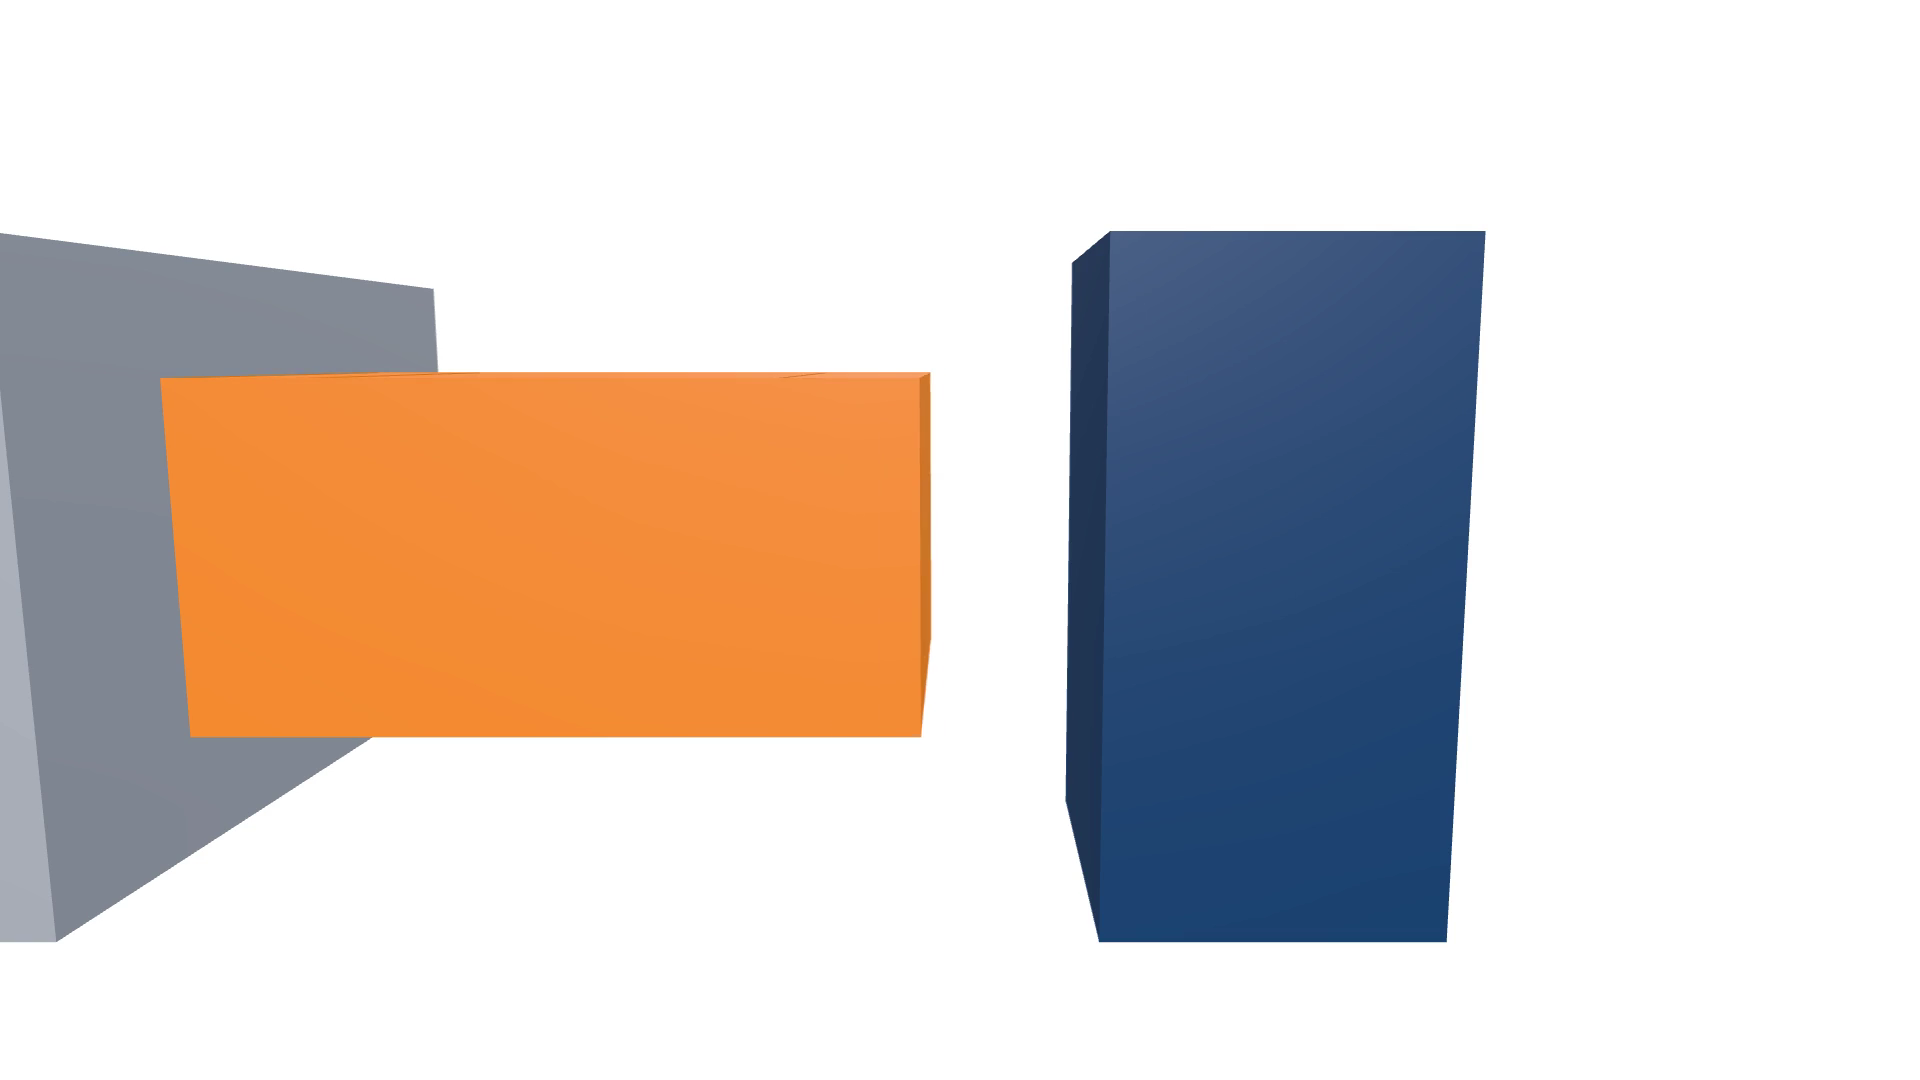
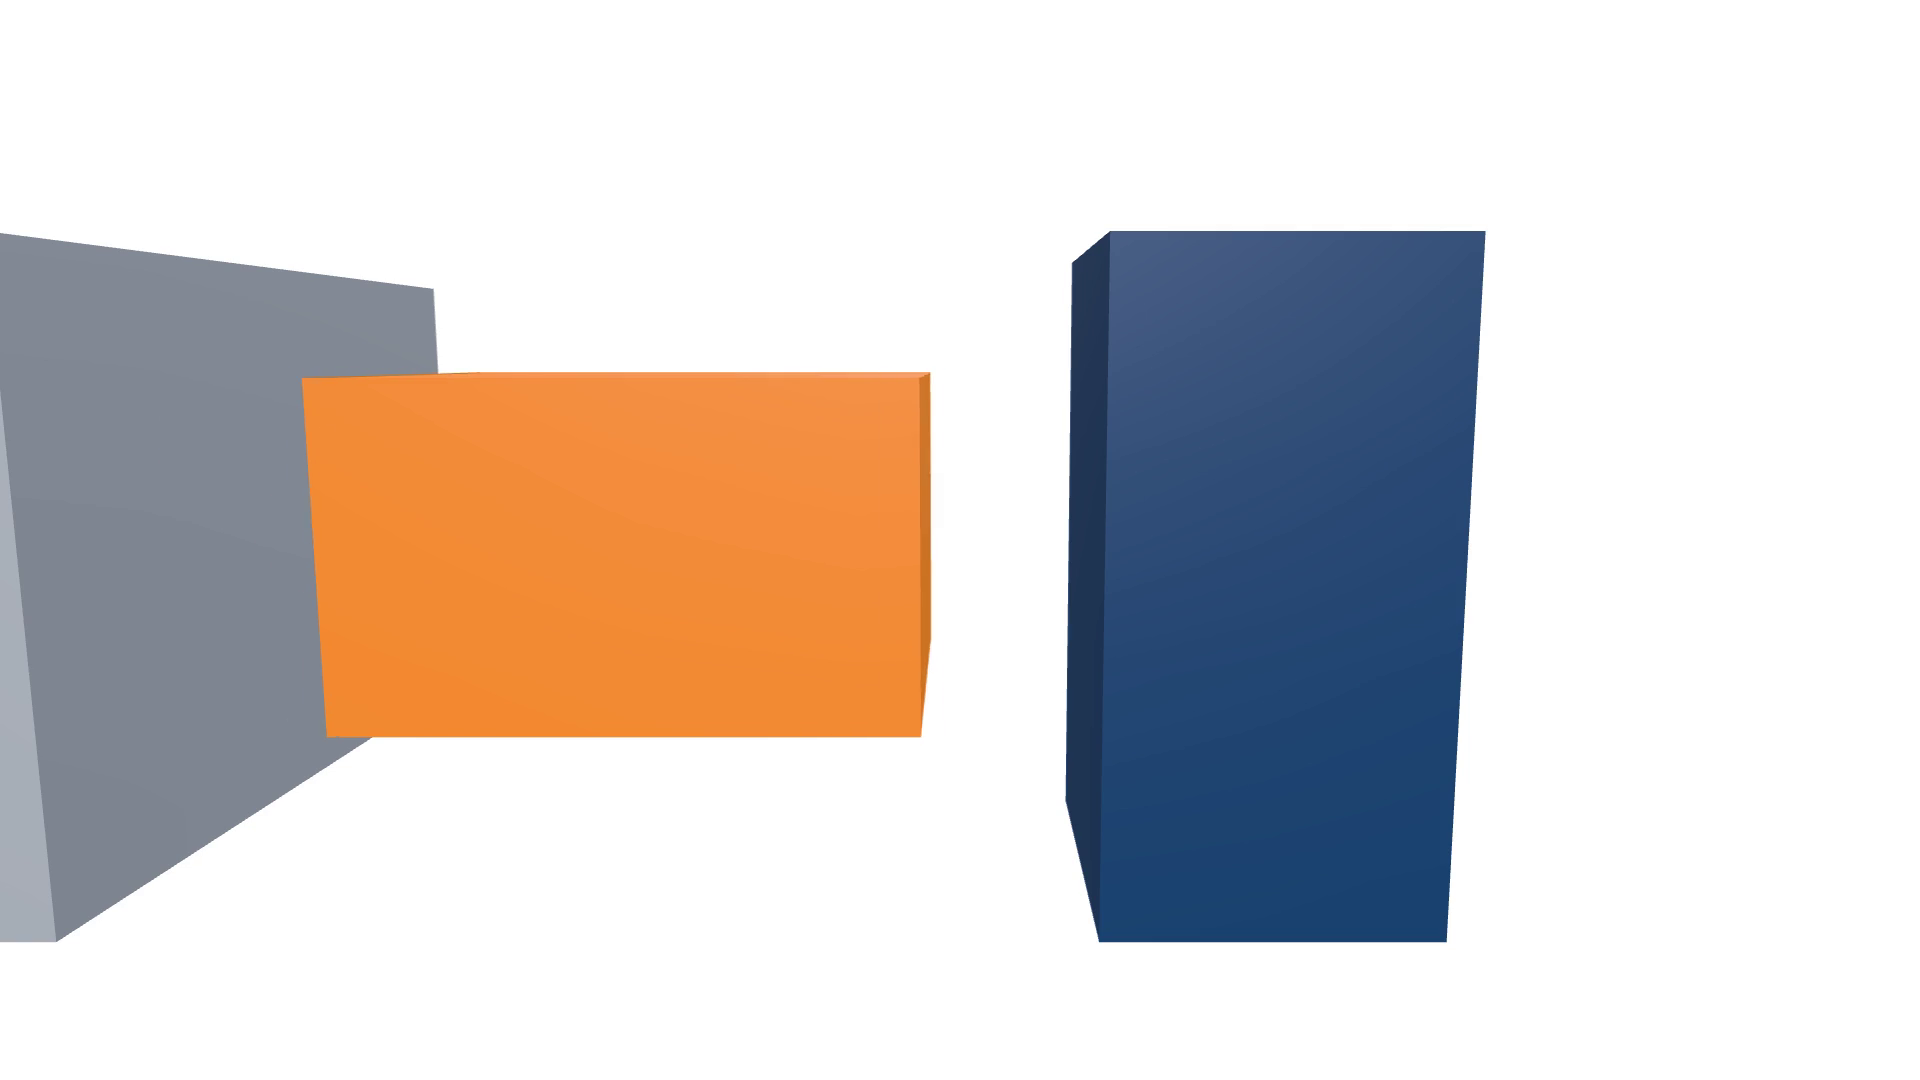
fix(kinematic): in-script queries leave no probe scene in the model
kinematic.suggestJointRanges, checkSweptCollision, checkStaticHold and
motionLoad lower a probe scene with solvedModel(poses, { validate: 'off' }).
That solvedAssembly record stayed in the session, so the model meshed every
assembly part twice: once fixed at the probe pose and once at the current
pose. kernelcad animate drew the moving part at both poses.

The session now removes the trailing probe record after the query has read
the lowered scene. The feature id is not reused.

The joint-range-suggestion demo is recaptured; the 2026-11-17 capture showed
the carriage stretched from its start to the wall.

Changed region(s): [[0.0625, 0.3361, 0.2188, 0.7028]]

diff --git a/tests/integration/kinematic/queryProbeSceneNotInModel.test.ts b/tests/integration/kinematic/queryProbeSceneNotInModel.test.ts
@@ -1,0 +1,46 @@
+// SPDX-License-Identifier: MIT
+// Copyright (c) 2026 Andrii Shylenko and kernelCAD contributors
+//
+// An in-script kinematic query lowers a probe scene of the assembly. That
+// probe scene must not stay in the model: it was meshed as a second copy of
+// every part, fixed at the probe pose, so an animation of the returned scene
+// showed the moving part at its rest pose and at its current pose at once.
+//
+// The script calls suggestJointRanges, checkSweptCollision, checkStaticHold
+// and motionLoad on one assembly, then returns one posed scene.
+
+import { describe, expect, it } from 'vitest';
+import { buildModel, updateModelParams } from '../../../src/composition/buildModel';
+import { meshFeaturesPerFeature } from '../../../src/modeling/capture/featureMeshing';
+
+const SCRIPT = `
+const slideMm = param('slideMm', 0.1, { min: 0.1, max: 9.8 });
+const arm = assembly('probe-scene');
+const rail = arm.part('rail', box(10, 30, 20));
+const carriage = arm.part('carriage', box(20, 16, 12));
+rail.connector('track', { type: 'axis', origin: { kind: 'vec3', value: [10, 15, 10] }, axis: [1, 0, 0] });
+carriage.connector('slide', { type: 'axis', origin: { kind: 'vec3', value: [0, 8, 6] }, axis: [1, 0, 0] });
+arm.mate('slide', 'rail.track', 'carriage.slide', 'prismatic', { pose: slideMm, limitsMm: [0.1, 9.8] });
+
+await kinematic.suggestJointRanges(arm, { joint: 'slide', search: [0, 12], resolution: 0.5 });
+await kinematic.checkSweptCollision(arm, { joint: 'slide', range: [1, 9, 4] });
+await kinematic.checkStaticHold(arm, { pose: { slide: 5 } });
+await kinematic.motionLoad(arm, {});
+
+return arm.solvedModel({});
+`;
+
+describe('in-script kinematic queries leave no probe scene in the model', () => {
+  it('records one solvedAssembly and meshes each part once, at the current pose', async () => {
+    const model = await buildModel({ code: SCRIPT, fileName: 'probe-scene.kcad.ts' });
+    const scenes = model.records.filter((r) => r.kind === 'solvedAssembly');
+    expect(scenes.map((r) => r.id)).toHaveLength(1);
+
+    await updateModelParams(model, [{ name: 'slideMm', value: 9 }]);
+    const meshing = await meshFeaturesPerFeature(model.records, model.session.paramTable, model.session);
+    const carriages = meshing.features.filter((f) => f.featureId.endsWith('__carriage'));
+    expect(carriages.map((f) => f.featureId)).toHaveLength(1);
+    // Rail face x = 10 plus slide 9: the carriage frame is at x = 19.
+    expect(carriages[0]!.transform![12]).toBeCloseTo(19, 6);
+  }, 120_000);
+});

diff --git a/src/modeling/capture/captureSession.ts b/src/modeling/capture/captureSession.ts
@@ -1134,6 +1134,15 @@ export class CaptureSession {
     return this.records;
   }
 
+  /** Remove the probe scene record `id` that an in-script query
+   *  (`kinematic.checkSweptCollision`, `suggestJointRanges`, ...) appended
+   *  with `solvedModel(poses, { validate: 'off' })` and has already lowered.
+   *  Left in the record list, the probe scene is meshed and exported as a
+   *  second copy of every part, fixed at the probe pose. Only a trailing
+   *  record is removed, so no later record can reference it; the id is not
+   *  reused. */
+  discardProbeRecord(id: FeatureId | undefined): void { if (id !== undefined && this.records.at(-1)?.id === id) this.records.pop(); }
+
   exportSession(): SerializedSession & { schemaVersion: 3; params: SerializedParamTable } {
     return {
       schemaVersion: 3,

diff --git a/src/kinematic/motionLoad.ts b/src/kinematic/motionLoad.ts
@@ -293,6 +293,7 @@ async function lowerRestScene(arm: Assembly): Promise<SceneBackend | undefined> 
     seedShapes: arm.__session().reusableLoweredPrefix(),
   });
   const id: FeatureId | undefined = solved.__sourceFeatureId();
+  arm.__session().discardProbeRecord(id);
   const lowered = id === undefined ? undefined : result.shapes.get(id);
   return lowered !== undefined && isSceneBackend(lowered) ? lowered : undefined;
 }

diff --git a/src/kinematic/suggestJointRanges.ts b/src/kinematic/suggestJointRanges.ts
@@ -746,6 +746,7 @@ async function lowerAssembly(arm: Assembly, poses: NumericPoses): Promise<SceneB
     seedShapes: arm.__session().reusableLoweredPrefix(),
   });
   const sourceId = scene.__sourceFeatureId();
+  arm.__session().discardProbeRecord(sourceId);
   if (sourceId === undefined) return undefined;
   const lowered = result.shapes.get(sourceId);
   if (!lowered || !isSceneBackend(lowered)) return undefined;

diff --git a/src/kinematic/checkSweptCollision.ts b/src/kinematic/checkSweptCollision.ts
@@ -296,6 +296,7 @@ async function lowerAssemblySceneForPoses(
     seedShapes: arm.__session().reusableLoweredPrefix(),
   });
   const sourceId = scene.__sourceFeatureId();
+  arm.__session().discardProbeRecord(sourceId);
   if (sourceId === undefined) return undefined;
   const lowered = result.shapes.get(sourceId);
   if (!lowered || !isSceneBackend(lowered)) return undefined;

diff --git a/src/kinematic/checkStaticHold.ts b/src/kinematic/checkStaticHold.ts
@@ -251,6 +251,7 @@ async function lowerPartMasses(
     gatedFeatureNames: arm.__session().gatedFeatureNames,
   });
   const sourceId = scene.__sourceFeatureId();
+  arm.__session().discardProbeRecord(sourceId);
   const lowered = sourceId !== undefined ? result.shapes.get(sourceId) : undefined;
   if (!lowered || !isSceneBackend(lowered)) {
     return undefined;

diff --git a/docs/demos/joint-range-suggestion/README.md b/docs/demos/joint-range-suggestion/README.md
@@ -27,10 +27,12 @@ Inspected 1920×1080 frames from the MP4 (24 frames, 12 fps, 2.000 s, h264):
 
 - `frames/pose-01.png` — start, slide 0.1. The orange carriage sits on the
   grey rail with a wide gap to the blue wall.
-- `frames/pose-02.png` — middle of the timeline. The carriage has moved
-  toward the wall and a gap remains.
+- `frames/pose-02.png` — middle of the timeline. The whole carriage has moved
+  toward the wall: its rear face has left the rail and a gap to the wall
+  remains.
 - `frames/pose-03.png` — last frame, slide at the reported stop. The carriage
-  face is short of the wall. A hairline of background shows between the
+  has the same length as in the first frame. Its rear face is clear of the
+  rail and its front face is short of the wall. A hairline of background shows between the
   orange face and the blue face. The solids do not overlap.
 
 Pose verification of the timeline (start, midpoint, end) reported clean:
@@ -39,18 +41,30 @@ Pose verification of the timeline (start, midpoint, end) reported clean:
 ## Reproduce
 
 ```sh
+node scripts/build-cli.mjs
 npm run build:player
-PLAYWRIGHT_BROWSERS_PATH=/Volumes/LabWired/.cache/playwright-kernelcad \
-npx tsx src/agent/cli/index.ts animate \
+PW_CDP_URL=http://127.0.0.1:1 \
+node dist/cli/index.js animate \
   examples/kinematic/joint-range-suggestion-motion.kcad.ts \
   docs/demos/joint-range-suggestion/joint-range-suggestion.mp4 \
   --fps 12 --pose 0,8 --lock-frame --backdrop white --json
 ```
 
-Capture on 2026-11-17 used the headless player at `dist/headless-player`
+Capture on 2026-11-20 used the headless player at `dist/headless-player`
 (`npm run build:player`, vite `vite.player.config.ts`). No studio server.
+`PW_CDP_URL` points at a closed port so the CLI starts its own Chromium.
 Camera: `setCameraTarget(36, 12, 10)`, `setCameraDistance(48)`, CLI pose
 `0,8`, `--lock-frame`, backdrop white. Timeline frames are 1920×1080.
-Wall time of that animate command was 80.28 s. The player build was 1.02 s.
+Wall time of that animate command was 344.69 s on a loaded machine.
+
+## Recapture on 2026-11-20
+
+The capture of 2026-11-17 was wrong. It showed the carriage twice: one copy
+fixed at slide 0.1 and one copy at the current slide, so the carriage looked
+stretched from the rail to the wall. `kinematic.suggestJointRanges` left its
+probe scene in the model, and the capture drew that scene too. The query now
+removes its probe scene. The script, the camera and the reported stop are
+unchanged. In the new frames one carriage moves, and the rail is visible
+behind it at the middle and last poses.
 
 Settings are also in `capture-settings.json`.

diff --git a/CHANGELOG.md b/CHANGELOG.md
@@ -1,5 +1,14 @@
 # Unreleased
 
+- A script that calls `kinematic.suggestJointRanges`, `checkSweptCollision`,
+  `checkStaticHold` or `motionLoad` no longer gets a second copy of every
+  assembly part in its model. Each query lowered a probe scene and left that
+  scene in the feature list, fixed at the probe pose, so `kernelcad animate`
+  and the viewer drew the moving part twice: at the probe pose and at the
+  current pose. The probe scene is now removed after the query has read it.
+  The `docs/demos/joint-range-suggestion` capture is replaced; the earlier
+  one showed the carriage stretched from its start to the wall.
+
 - A `union()` member that carries no face lineage, such as a sketch extrude
   or extruded text, now keeps its finish too. `union(plate, logo)` with a
   navy plate and orange raised text rendered all navy in `kernelcad render`,
